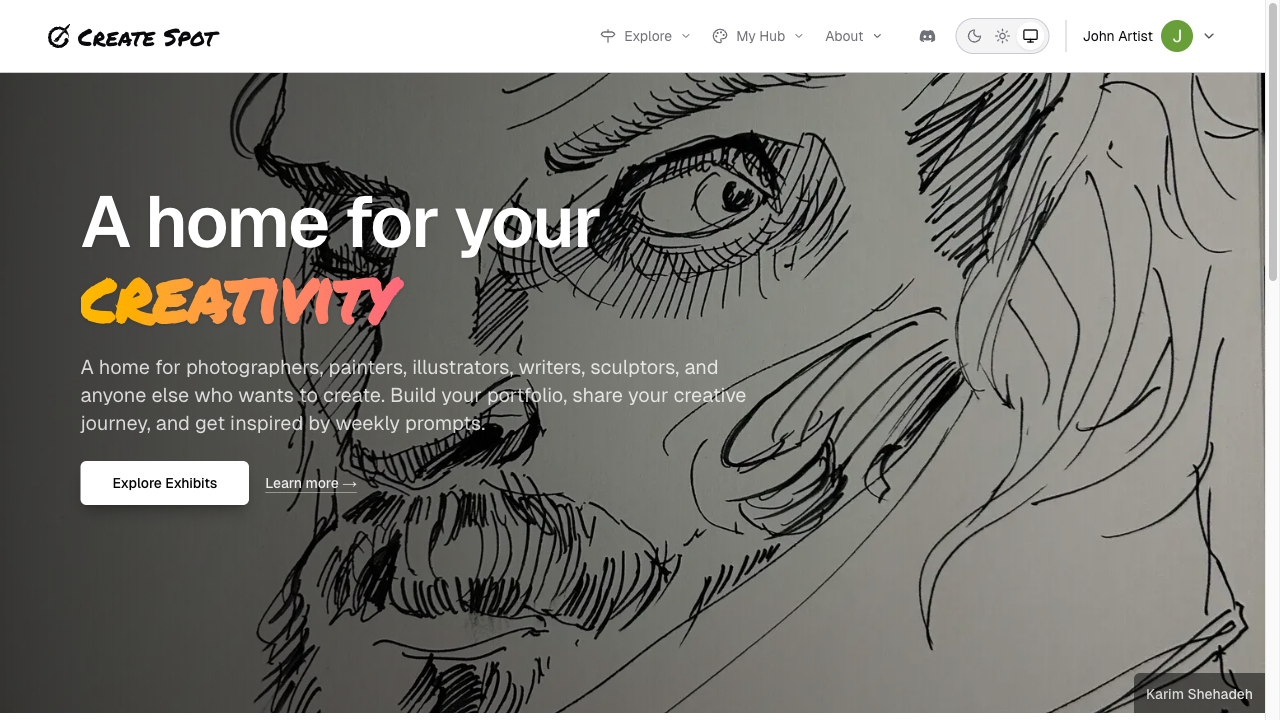
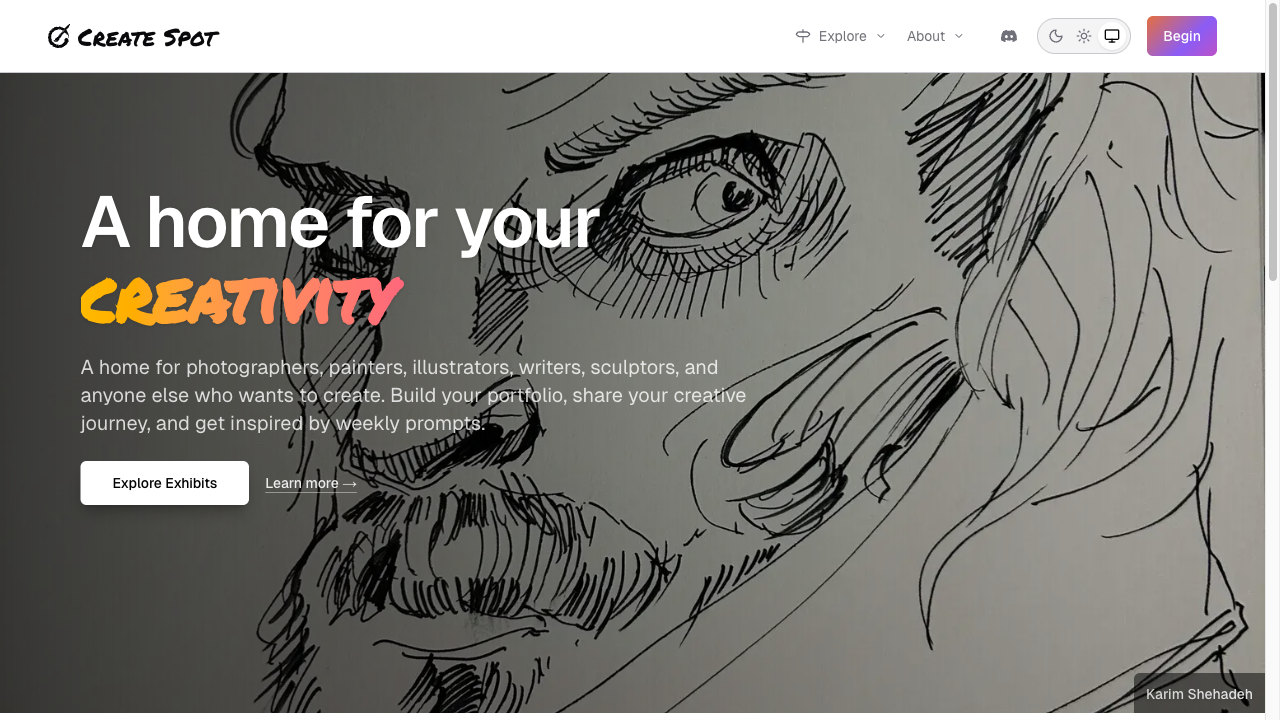
Update authentication redirects to new welcome landing page and increment version to 2.3.1

Changed region(s): [[0.7188, 0.0, 0.9688, 0.0917], [0.5625, 0.0306, 0.6875, 0.0611], [0.4688, 0.0306, 0.5312, 0.0611]]

diff --git a/apps/help/scripts/capture-screenshots.ts b/apps/help/scripts/capture-screenshots.ts
@@ -47,13 +47,18 @@ interface Capture {
   waitUntil?: "load" | "domcontentloaded" | "networkidle";
 }
 
-const captures: Capture[] = [
-  { name: "homepage", url: "/" },
-  { name: "sign-in", url: "/welcome" },
-  { name: "exhibition-list", url: "/exhibition" },
-  { name: "this-week-gallery", url: "/prompt/this-week" },
-  { name: "play-submit", url: "/prompt/play" },
-  { name: "prompt-history", url: "/prompt/history" },
+// Pages that don't require authentication (capture before login)
+const publicCaptures: Capture[] = [
+  { name: "homepage", url: "/", waitUntil: "networkidle" },
+  { name: "sign-in", url: "/welcome", waitUntil: "networkidle" },
+  { name: "exhibition-list", url: "/exhibition", waitUntil: "networkidle" },
+];
+
+// Pages that require authentication (capture after login)
+const authCaptures: Capture[] = [
+  { name: "this-week-gallery", url: "/prompt/this-week", waitUntil: "networkidle" },
+  { name: "play-submit", url: "/prompt/play", waitUntil: "networkidle" },
+  { name: "prompt-history", url: "/prompt/history", waitUntil: "networkidle" },
 ];
 
 async function login(page: import("playwright").Page): Promise<boolean> {
@@ -76,10 +81,31 @@ async function login(page: import("playwright").Page): Promise<boolean> {
   await page.getByRole("button", { name: /next/i }).click();
   await page.waitForURL((url) => url.origin === new URL(BASE_URL).origin, { timeout: 20000 }).catch(() => null);
   await page.waitForTimeout(1000);
-  const loggedIn = page.url().startsWith(BASE_URL) && !page.url().includes("/auth/signin");
+  const loggedIn = page.url().startsWith(BASE_URL) && !page.url().includes("/welcome");
   if (loggedIn) console.log("Logged in.");
   else console.warn("Login may have failed; continuing unauthenticated.");
   return loggedIn;
+}
+
+async function capturePage(
+  page: import("playwright").Page,
+  name: string,
+  url: string,
+  waitUntil: "load" | "domcontentloaded" | "networkidle" = "networkidle"
+): Promise<void> {
+  const fullUrl = `${BASE_URL}${url}`;
+  console.log(`Capturing ${name}: ${fullUrl}`);
+  try {
+    await page.goto(fullUrl, { waitUntil, timeout: 15000 });
+    await page.waitForTimeout(800);
+    const filepath = path.join(IMAGES_DIR, `${name}.png`);
+    await page.screenshot({
+      path: filepath,
+    });
+    console.log(`  -> ${filepath}`);
+  } catch (err) {
+    console.warn(`  Failed: ${err}`);
+  }
 }
 
 async function main() {
@@ -90,29 +116,28 @@ async function main() {
       "Mozilla/5.0 (Macintosh; Intel Mac OS X 10_15_7) AppleWebKit/537.36 (KHTML, like Gecko) Chrome/120.0.0.0 Safari/537.36",
   });
 
-  const page = await context.newPage();
+  // Create a fresh page for public captures (not logged in)
+  const publicPage = await context.newPage();
 
+  // Capture public pages first (before login)
+  for (const { name, url, waitUntil } of publicCaptures) {
+    await capturePage(publicPage, name, url, waitUntil);
+  }
+
+  await publicPage.close();
+
+  // Now create a new page and log in for authenticated captures
+  const page = await context.newPage();
   await login(page);
 
-  for (const { name, url, waitUntil = "domcontentloaded" } of captures) {
-    const fullUrl = `${BASE_URL}${url}`;
-    console.log(`Capturing ${name}: ${fullUrl}`);
-    try {
-      await page.goto(fullUrl, { waitUntil, timeout: 15000 });
-      await page.waitForTimeout(800);
-      const filepath = path.join(IMAGES_DIR, `${name}.png`);
-      await page.screenshot({
-        path: filepath,
-      });
-      console.log(`  -> ${filepath}`);
-    } catch (err) {
-      console.warn(`  Failed: ${err}`);
-    }
+  // Capture authenticated pages
+  for (const { name, url, waitUntil } of authCaptures) {
+    await capturePage(page, name, url, waitUntil);
   }
 
   // Capture dropdown menus for navigation documentation
   try {
-    await page.goto(`${BASE_URL}/`, { waitUntil: "domcontentloaded", timeout: 15000 });
+    await page.goto(`${BASE_URL}/`, { waitUntil: "networkidle", timeout: 15000 });
     await page.waitForTimeout(500);
 
     // Capture Explore dropdown
@@ -173,7 +198,7 @@ async function main() {
 
   // Try to capture exhibit grid, path, and map views
   try {
-    await page.goto(`${BASE_URL}/exhibition`, { waitUntil: "domcontentloaded", timeout: 15000 });
+    await page.goto(`${BASE_URL}/exhibition`, { waitUntil: "networkidle", timeout: 15000 });
     await page.waitForTimeout(1000);
     const exhibitLink = await page
       .locator('a[href^="/exhibition/gallery/grid/"], a[href^="/exhibition/"]')
@@ -186,7 +211,7 @@ async function main() {
         for (const view of ["grid", "path"] as const) {
           const viewUrl = `/exhibition/gallery/${view}/${exhibitId}`;
           console.log(`Capturing exhibit-${view}: ${BASE_URL}${viewUrl}`);
-          await page.goto(`${BASE_URL}${viewUrl}`, { waitUntil: "domcontentloaded", timeout: 15000 });
+          await page.goto(`${BASE_URL}${viewUrl}`, { waitUntil: "networkidle", timeout: 15000 });
           await page.waitForTimeout(800);
           await page.screenshot({
             path: path.join(IMAGES_DIR, `exhibit-${view}.png`),
@@ -196,7 +221,7 @@ async function main() {
     }
     // Map view (global exhibition with world map)
     console.log(`Capturing exhibit-map: ${BASE_URL}/exhibition/global`);
-    await page.goto(`${BASE_URL}/exhibition/global`, { waitUntil: "domcontentloaded", timeout: 15000 });
+    await page.goto(`${BASE_URL}/exhibition/global`, { waitUntil: "networkidle", timeout: 15000 });
     await page.waitForTimeout(2000);
     await page.screenshot({
       path: path.join(IMAGES_DIR, "exhibit-map.png"),
@@ -234,7 +259,7 @@ async function main() {
 
   // Profile editor (requires login: open My Hub dropdown -> Profile -> Edit profile)
   try {
-    await page.goto(`${BASE_URL}/`, { waitUntil: "domcontentloaded", timeout: 15000 });
+    await page.goto(`${BASE_URL}/`, { waitUntil: "networkidle", timeout: 15000 });
     await page.waitForTimeout(500);
 
     // Look for "My Hub" dropdown trigger in the navigation

diff --git a/apps/web/app/creators/[creatorid]/critiques/page.tsx b/apps/web/app/creators/[creatorid]/critiques/page.tsx
@@ -58,7 +58,7 @@ export default async function CreatorCritiquesListPage({
   const [session, creator] = await Promise.all([auth(), getCreator(creatorid)]);
 
   if (!session?.user) {
-    redirect("/auth/signin");
+    redirect("/welcome");
   }
 
   if (!creator) {

diff --git a/apps/web/app/creators/[creatorid]/collections/[collectionid]/edit/page.tsx b/apps/web/app/creators/[creatorid]/collections/[collectionid]/edit/page.tsx
@@ -39,7 +39,7 @@ export default async function CollectionEditPage({
   const session = await auth();
 
   if (!session?.user?.id) {
-    redirect("/api/auth/signin");
+    redirect("/welcome");
   }
 
   const collection = await prisma.collection.findUnique({

diff --git a/apps/web/app/favorites/page.tsx b/apps/web/app/favorites/page.tsx
@@ -32,7 +32,7 @@ export default async function FavoritesPage() {
   const session = await auth();
 
   if (!session?.user) {
-    redirect("/auth/signin");
+    redirect("/welcome");
   }
 
   const t = await getTranslations("favorites");

diff --git a/apps/web/app/prompt/history/page.tsx b/apps/web/app/prompt/history/page.tsx
@@ -12,7 +12,7 @@ export default async function HistoryPage() {
   const session = await auth();
 
   if (!session?.user) {
-    redirect("/auth/signin");
+    redirect("/welcome");
   }
 
   const prompts = await prisma.prompt.findMany({

diff --git a/apps/web/app/admin/notifications/page.tsx b/apps/web/app/admin/notifications/page.tsx
@@ -10,7 +10,7 @@ export default async function AdminNotificationsPage() {
   const session = await auth();
 
   if (!session?.user) {
-    redirect("/auth/signin");
+    redirect("/welcome");
   }
 
   if (!session.user.isAdmin) {

diff --git a/apps/web/app/prompt/play/page.tsx b/apps/web/app/prompt/play/page.tsx
@@ -14,7 +14,7 @@ export default async function PlayPage() {
   const session = await auth();
 
   if (!session?.user) {
-    redirect("/auth/signin");
+    redirect("/welcome");
   }
 
   const prompt = await getCurrentPrompt();

diff --git a/apps/web/app/admin/settings/page.tsx b/apps/web/app/admin/settings/page.tsx
@@ -13,7 +13,7 @@ export default async function AdminSettingsPage() {
   const session = await auth();
 
   if (!session?.user) {
-    redirect("/auth/signin");
+    redirect("/welcome");
   }
 
   if (!session.user.isAdmin) {

diff --git a/apps/web/app/admin/prompts/page.tsx b/apps/web/app/admin/prompts/page.tsx
@@ -10,7 +10,7 @@ export default async function AdminPromptsPage() {
   const session = await auth();
 
   if (!session?.user) {
-    redirect("/auth/signin");
+    redirect("/welcome");
   }
 
   if (!session.user.isAdmin) {

diff --git a/apps/web/app/admin/exhibits/page.tsx b/apps/web/app/admin/exhibits/page.tsx
@@ -25,7 +25,7 @@ export default async function AdminExhibitsPage({
   const session = await auth();
 
   if (!session?.user) {
-    redirect("/auth/signin");
+    redirect("/welcome");
   }
 
   if (!session.user.isAdmin) {

diff --git a/apps/web/app/admin/users/page.tsx b/apps/web/app/admin/users/page.tsx
@@ -11,7 +11,7 @@ export default async function AdminUsersPage() {
   const session = await auth();
 
   if (!session?.user) {
-    redirect("/auth/signin");
+    redirect("/welcome");
   }
 
   if (!session.user.isAdmin) {

diff --git a/apps/web/app/admin/page.tsx b/apps/web/app/admin/page.tsx
@@ -19,7 +19,7 @@ export default async function AdminPage() {
   const session = await auth();
 
   if (!session?.user) {
-    redirect("/auth/signin");
+    redirect("/welcome");
   }
 
   if (!session.user.isAdmin) {
